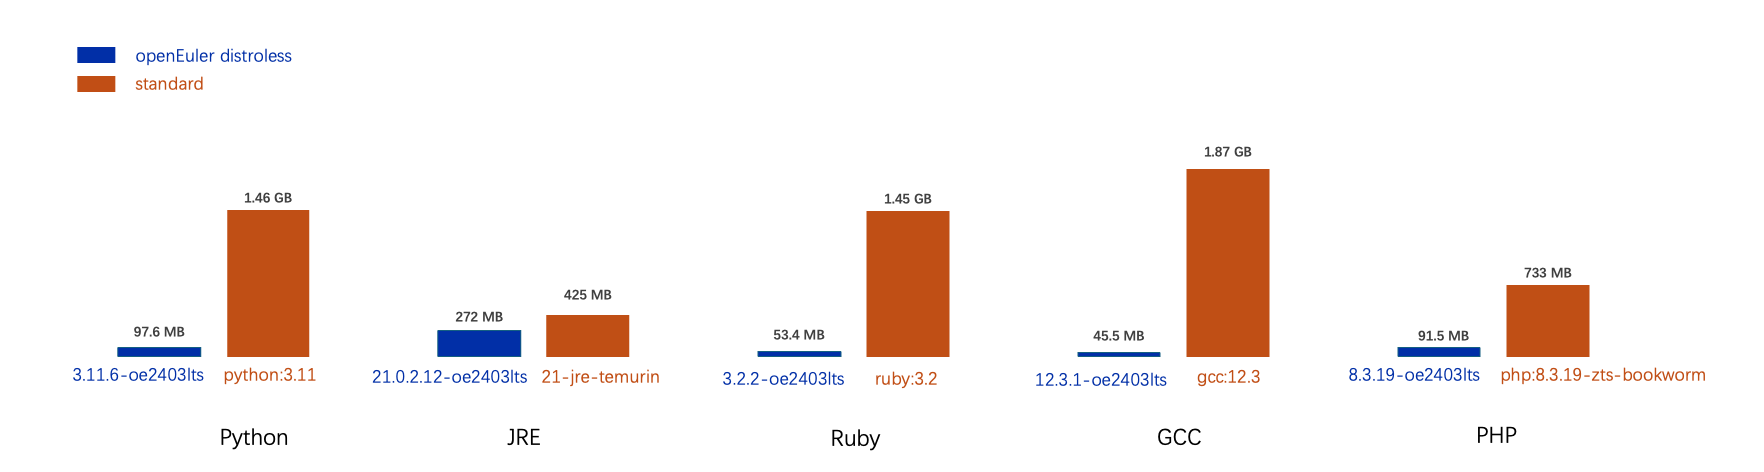
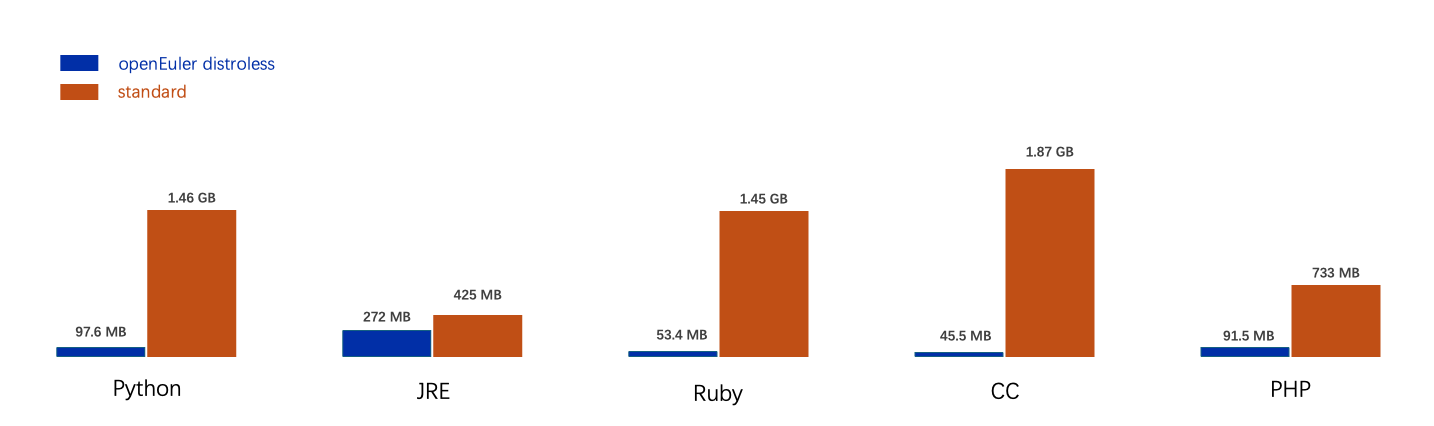
Fix figure

diff --git a/Distroless/README.md b/Distroless/README.md
@@ -107,12 +107,13 @@ slices:
 | [`ruby`](https://gitee.com/openeuler/openeuler-docker-images/blob/master/Distroless/distroless-ruby)      | ruby原生应用               | 仅保留Ruby解释器及核心gem运行时       |
 | [`php`](https://gitee.com/openeuler/openeuler-docker-images/blob/master/Distroless/distroless-php)        | php原生应用                | 保留PHP解释器、cli工具及其依赖的库     |
 
-**2. 镜像体积对比**
+**2. openEuler Distroless镜像与标准镜像体积对比**
 
 <img src="./doc/compare.png" alt="替代文本" width="1100px" />
 
 
-## 四、3步体验openEuler Distroless
+## 四、3步体验openEuler Distroless镜像
+通常情况下，建议用户使用openEuler Distroless镜像作为运行时环境的基础镜像来使用，使用方法如下
 
 **以Python镜像为例**：
 
